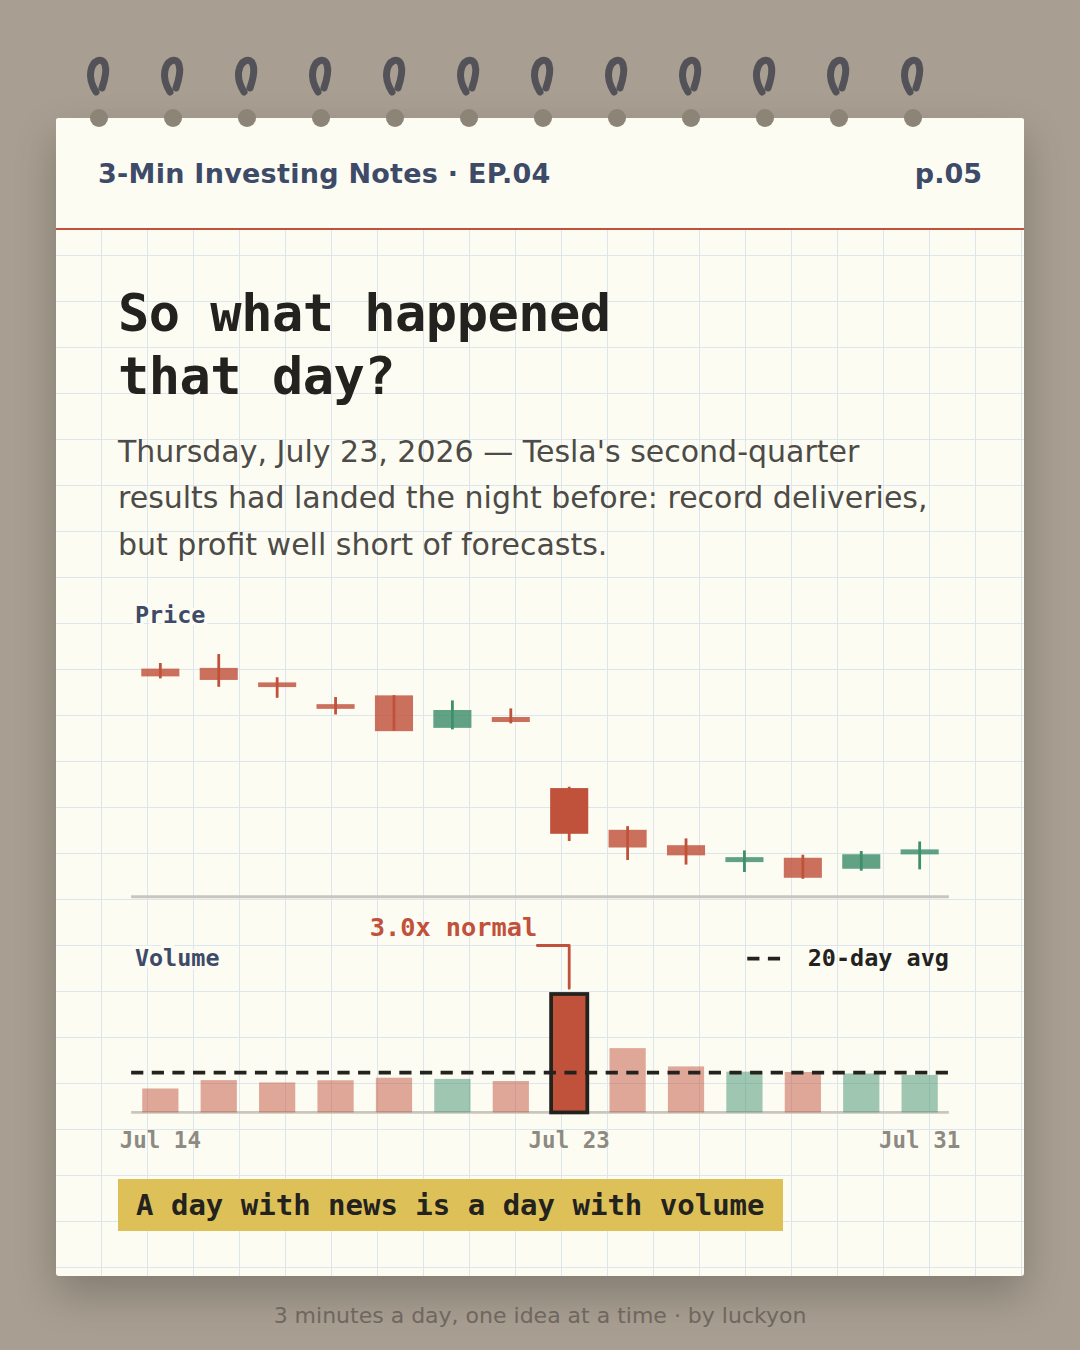
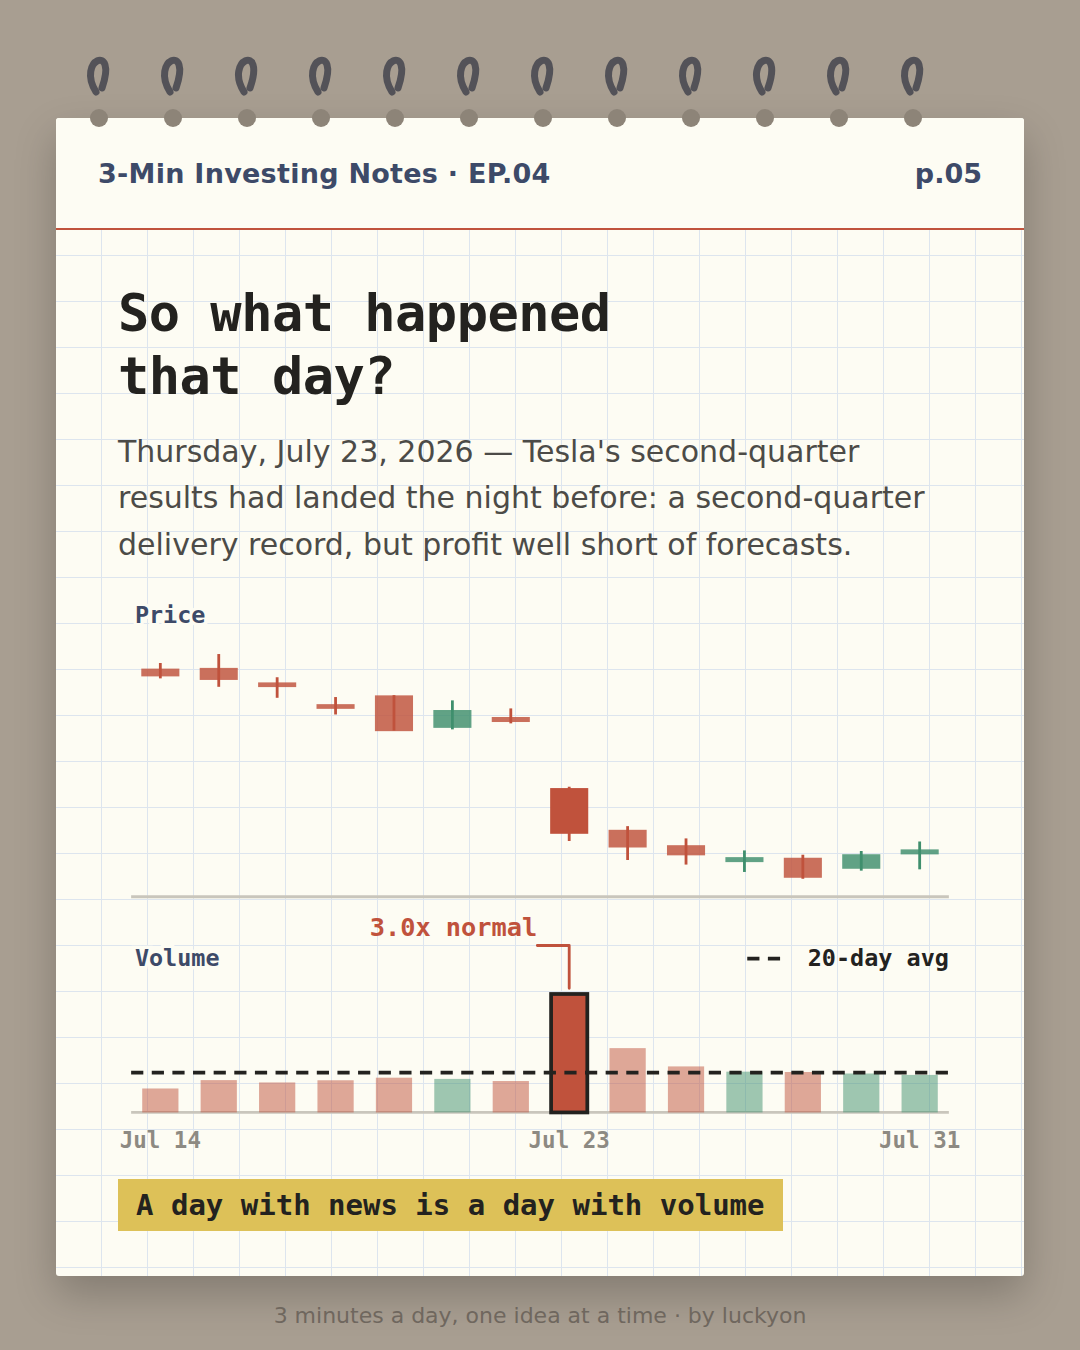
chart-notes: 2026-08-23-ep04 검증 지적사항 반영
검증 에이전트 판정 FAIL 3건 중 콘텐츠 관련 1건 + 권고 3건.

- p.05 영어판·캡션·alt_en[4] 의 "record deliveries" 가 원자료(역대 2분기
  최대치)보다 강하게 읽혔다. "a second-quarter delivery record" 로 한정.
- 영어판 p.04 의 "2x or more" 설명이 한국어("평소의 두 배 넘게")보다
  느슨했다. "Twice its normal or more" 로 맞춤.
- fact_check.en 에 한글이 한 단어 남아 있었다(EP.01~03 은 0자). 영어로 교체.
- fact_check.ko 날짜 오프셋 항목에 휴장일 교차검증 근거를 되살렸다
  (제헌절 7/17·광복절 대체공휴일 8/17 자리가 비어 있음).

시세는 28개 봉(ko 14 + en 14) 전량과 20일 평균 2건을 검증 에이전트가
원본에서 독립 재계산해 자릿수까지 일치 확인. 수정 없음.

Claude-Session: https://claude.ai/code/session_01LTS1RRz2cEpSGNTFRuiL8r

Changed region(s): [[0.3972, 0.3422, 0.8556, 0.4356], [0.1222, 0.3733, 0.3667, 0.4356]]

diff --git a/cards/chart-notes/2026-08-23-ep04/preview.html b/cards/chart-notes/2026-08-23-ep04/preview.html
@@ -56,7 +56,7 @@
 제출하면 다음 확인 루틴이 읽고 처리한 뒤, 결과를 카카오톡으로 알려드립니다.</p>
 
 <div class="fact"><b>시세 검증 기록</b>
-<div>KO — ① p.05 차트 — 삼성전자(005930.KS) 2026-07-13~07-31 14거래일 OHLC·거래량 전량을 PlayMCP UsStockInfo 일봉에서 그대로 옮겼다. 급증일 7/29(수) 시가 226,500 / 고가 234,000 / 저가 189,200 / 종가 208,500, 거래량 65,555,523주. ② 20거래일 평균 — 7/29 직전 20거래일(6/30~7/28) 거래량 합 564,693,346주 ÷ 20 = 28,234,667주. 65,555,523 ÷ 28,234,667 = 2.32배(p.04·p.05 의 '2.3배'). ③ p.05 가 말하는 «그날 무슨 일» — 네이버 뉴스로 확인했다. 머니투데이(2026-08-04) 「코스피는 지난달 28일과 29일 연일 서킷브레이커를 울리며 16.17% 급락」, 미디어오늘(2026-07-30) 「지난 28일과 29일 이틀에 걸쳐 코스피 지수가 17% 가까이 급락… 인공지능(AI) 투자 지속성에 대한 우려」, 연합뉴스·파이낸셜뉴스 등 다수가 「7월 29일 장중 18만9200원」을 보도했고 이는 일봉 저가와 일치한다. 7/29 종가 208,500원은 7/28 종가 220,000원 대비 -5.23%(p.07 의 '5.2%'). ④ p.06 — 실제 시세가 아닌 개념 비교표다(2026-08-23 이슈 #23 수정으로 교체). 종목·날짜·실거래 수치를 넣지 않았고, 쓰인 산술은 5만 원 × 100주 = 500만 원 / 50만 원 × 100주 = 5,000만 원 두 줄뿐이다. «거래대금 = 거래량 × 체결가» 라는 정의는 p.03 에 이미 실린 것과 같다. ⑤ p.07 의 '1주 체결 = 거래량 1주' 는 네이버 지식백과 '거래량'(매경 시사용어) 의 «매도 1백주, 매입 1백주인 경우 거래량은 1백주가 된다» 를 근거로 한다. ⑥ p.02 는 실제 시세가 아닌 도식이다 — 숫자·종목·날짜를 넣지 않았다. ⑦ 날짜 오프셋: 이 도구의 KRX 일봉은 15:00Z 로 찍히며 실제 거래일은 KST 다음 날이다. 2026-07-27T15:00Z 봉(종가 220,000원)이 언론이 보도한 «7월 28일 삼성전자 13.39% 하락»(254,000 → 220,000 = -13.39%)과 맞아떨어지는 것으로 교차검증했다.</div><div>EN — (1) p.05 chart — Tesla (TSLA) 2026-07-14 to 07-31, all 14 sessions of OHLC and volume copied straight from the PlayMCP UsStockInfo daily pull. Spike day Thu Jul 23: open 341.00 / high 342.11 / low 315.74 / close 319.69 on 115,606,400 shares. (2) 20-session average — the 20 sessions before Jul 23 (Jun 24 – Jul 22) total 779,189,600 shares ÷ 20 = 38,959,480. 115,606,400 ÷ 38,959,480 = 2.97x, shown as 3.0x on p.04 and p.05. (3) What p.05 says happened that day — Tesla released Q2 results after the close on Wednesday, July 22, and the stock fell the next session. Yonhap and SBS (2026-07-24): 'Tesla closed down 14.5% at $319.69… deliveries were a record 480,126 vehicles… profit came in far below the market forecast.' Newspim (2026-07-24) reports the walked-back robotaxi timeline from the same call. Close 319.69 against the Jul 22 close of 374.01 = -14.52% (p.07's '14.5%'). (4) p.06 — a concept table, not market data (replaced per issue #23 on 2026-08-23). It names no ticker, date, or traded figure; the only arithmetic on it is $50 × 100 shares = $5,000 and $500 × 100 shares = $50,000. The definition it rests on, turnover = volume × price, is the one already given on p.03. (5) p.07's 'one share traded = one share of volume' follows the Naver Encyclopedia entry for 거래량: «if 100 shares are sold and 100 bought, volume is 100 shares». (6) p.02 is a schematic, not real data — no ticker, date, or figure appears on it. (7) US bars carry 04:00Z stamps and need no date shift; Fri Jul 3 (Independence Day observed) is correctly absent from the pull.</div></div>
+<div>KO — ① p.05 차트 — 삼성전자(005930.KS) 2026-07-13~07-31 14거래일 OHLC·거래량 전량을 PlayMCP UsStockInfo 일봉에서 그대로 옮겼다. 급증일 7/29(수) 시가 226,500 / 고가 234,000 / 저가 189,200 / 종가 208,500, 거래량 65,555,523주. ② 20거래일 평균 — 7/29 직전 20거래일(6/30~7/28) 거래량 합 564,693,346주 ÷ 20 = 28,234,667주. 65,555,523 ÷ 28,234,667 = 2.32배(p.04·p.05 의 '2.3배'). ③ p.05 가 말하는 «그날 무슨 일» — 네이버 뉴스로 확인했다. 머니투데이(2026-08-04) 「코스피는 지난달 28일과 29일 연일 서킷브레이커를 울리며 16.17% 급락」, 미디어오늘(2026-07-30) 「지난 28일과 29일 이틀에 걸쳐 코스피 지수가 17% 가까이 급락… 인공지능(AI) 투자 지속성에 대한 우려」, 연합뉴스·파이낸셜뉴스 등 다수가 「7월 29일 장중 18만9200원」을 보도했고 이는 일봉 저가와 일치한다. 7/29 종가 208,500원은 7/28 종가 220,000원 대비 -5.23%(p.07 의 '5.2%'). ④ p.06 — 실제 시세가 아닌 개념 비교표다(2026-08-23 이슈 #23 수정으로 교체). 종목·날짜·실거래 수치를 넣지 않았고, 쓰인 산술은 5만 원 × 100주 = 500만 원 / 50만 원 × 100주 = 5,000만 원 두 줄뿐이다. «거래대금 = 거래량 × 체결가» 라는 정의는 p.03 에 이미 실린 것과 같다. ⑤ p.07 의 '1주 체결 = 거래량 1주' 는 네이버 지식백과 '거래량'(매경 시사용어) 의 «매도 1백주, 매입 1백주인 경우 거래량은 1백주가 된다» 를 근거로 한다. ⑥ p.02 는 실제 시세가 아닌 도식이다 — 숫자·종목·날짜를 넣지 않았다. ⑦ 날짜 오프셋: 이 도구의 KRX 일봉은 15:00Z 로 찍히며 실제 거래일은 KST 다음 날이다. 2026-07-27T15:00Z 봉(종가 220,000원)이 언론이 보도한 «7월 28일 삼성전자 13.39% 하락»(254,000 → 220,000 = -13.39%)과 맞아떨어지는 것으로, 또 제헌절 7/17(금)·광복절 대체공휴일 8/17(월) 자리가 정확히 비어 있는 것으로 교차검증했다.</div><div>EN — (1) p.05 chart — Tesla (TSLA) 2026-07-14 to 07-31, all 14 sessions of OHLC and volume copied straight from the PlayMCP UsStockInfo daily pull. Spike day Thu Jul 23: open 341.00 / high 342.11 / low 315.74 / close 319.69 on 115,606,400 shares. (2) 20-session average — the 20 sessions before Jul 23 (Jun 24 – Jul 22) total 779,189,600 shares ÷ 20 = 38,959,480. 115,606,400 ÷ 38,959,480 = 2.97x, shown as 3.0x on p.04 and p.05. (3) What p.05 says happened that day — Tesla released Q2 results after the close on Wednesday, July 22, and the stock fell the next session. Yonhap and SBS (2026-07-24): 'Tesla closed down 14.5% at $319.69… deliveries were a record 480,126 vehicles… profit came in far below the market forecast.' Newspim (2026-07-24) reports the walked-back robotaxi timeline from the same call. Close 319.69 against the Jul 22 close of 374.01 = -14.52% (p.07's '14.5%'). (4) p.06 — a concept table, not market data (replaced per issue #23 on 2026-08-23). It names no ticker, date, or traded figure; the only arithmetic on it is $50 × 100 shares = $5,000 and $500 × 100 shares = $50,000. The definition it rests on, turnover = volume × price, is the one already given on p.03. (5) p.07's 'one share traded = one share of volume' follows the Naver Encyclopedia entry for trading volume: «if 100 shares are sold and 100 bought, volume is 100 shares». (6) p.02 is a schematic, not real data — no ticker, date, or figure appears on it. (7) US bars carry 04:00Z stamps and need no date shift; Fri Jul 3 (Independence Day observed) is correctly absent from the pull.</div></div>
 
 
     <h2>🇰🇷 한국어 — 8장</h2>
@@ -115,8 +115,8 @@
       <figcaption><b>p.04</b> Formula card — today's volume divided by the 20-session average volume gives relative volume. 1x is a normal day, 2x or more is worth investigating, 0.5x is a day to take lightly. Tesla on July 23, 2026: 115.6M divided by 39.0M equals 3.0x, and the card closes by asking what happened that day</figcaption>
     </figure>
     <figure>
-      <img src="en/card5.png" alt="Real chart — Tesla's 14 sessions from July 14 to 31, 2026, with candlesticks in the upper panel and volume bars below, crossed by a dashed line marking the 20-session average. The July 23 bar spikes in red, labelled 3.0x normal, and the card explains that Tesla's second-quarter results had landed the night before: record deliveries but profit well short of forecasts" loading="lazy">
-      <figcaption><b>p.05</b> Real chart — Tesla's 14 sessions from July 14 to 31, 2026, with candlesticks in the upper panel and volume bars below, crossed by a dashed line marking the 20-session average. The July 23 bar spikes in red, labelled 3.0x normal, and the card explains that Tesla's second-quarter results had landed the night before: record deliveries but profit well short of forecasts</figcaption>
+      <img src="en/card5.png" alt="Real chart — Tesla's 14 sessions from July 14 to 31, 2026, with candlesticks in the upper panel and volume bars below, crossed by a dashed line marking the 20-session average. The July 23 bar spikes in red, labelled 3.0x normal, and the card explains that Tesla's second-quarter results had landed the night before: a second-quarter delivery record but profit well short of forecasts" loading="lazy">
+      <figcaption><b>p.05</b> Real chart — Tesla's 14 sessions from July 14 to 31, 2026, with candlesticks in the upper panel and volume bars below, crossed by a dashed line marking the 20-session average. The July 23 bar spikes in red, labelled 3.0x normal, and the card explains that Tesla's second-quarter results had landed the night before: a second-quarter delivery record but profit well short of forecasts</figcaption>
     </figure>
     <figure>
       <img src="en/card6.png" alt="Concept comparison table — volume on the left is counted in shares, turnover on the right in dollars. If 100 shares of a $50 stock trade, volume is 100 shares and turnover $5,000; if 100 shares of a $500 stock trade, volume is still 100 shares but turnover is $50,000" loading="lazy">
@@ -130,8 +130,8 @@
       <img src="en/card8.png" alt="Three-line recap, a teaser for the next episode on support and resistance, and a note that this is educational content and not investment advice" loading="lazy">
       <figcaption><b>p.08</b> Three-line recap, a teaser for the next episode on support and resistance, and a note that this is educational content and not investment advice</figcaption>
     </figure></div>
-    <h3>캡션 (1746자)</h3>
-    <div class="cap">Those vertical bars in the panel under the price chart are volume — simply how many shares changed hands that day.<br><br>The raw number tells you nothing on its own. One division fixes that: today's volume ÷ the 20-session average. Tesla traded 115.6M shares on Thursday, July 23, 2026, against a 39.0M average over the previous 20 sessions. That is 3.0 times its own normal.<br><br>So what happened that day? Tesla's second-quarter results had landed the night before — record deliveries of 480,126 vehicles, but profit far short of forecasts, and a robotaxi timeline the company walked back on the call. The stock closed down 14.5%. Volume that sits far from normal is a signal that the day is worth looking into.<br><br>The number your app prints next to volume is turnover, and the two count different things. Volume counts shares; turnover counts dollars. If 100 shares of a $50 stock trade, volume is 100 shares and turnover is $5,000. If 100 shares of a $500 stock trade, volume is still 100 shares — but turnover is $50,000. That is also why you should never rank two stocks by share count: judge each against its own normal, or compare the money traded.<br><br>And the mistake almost everyone makes: rising volume does not mean buyers piled in. Every share traded needs a buyer and a seller, so the two sides always match. Volume never gives you direction — it tells you how many shares changed hands.<br><br>📌 Save it and pull it up when you chart<br>👇 Tag a friend who just started investing<br>(Educational content only — not investment advice)<br><br>Next up: support and resistance — reading the ceiling and the floor on a chart.<br><br>#investingbasics #stockmarket #tradingvolume #stockcharts #technicalanalysis #learntoinvest #tesla #stockmarketbasics #investing101 #luckyon</div>
+    <h3>캡션 (1754자)</h3>
+    <div class="cap">Those vertical bars in the panel under the price chart are volume — simply how many shares changed hands that day.<br><br>The raw number tells you nothing on its own. One division fixes that: today's volume ÷ the 20-session average. Tesla traded 115.6M shares on Thursday, July 23, 2026, against a 39.0M average over the previous 20 sessions. That is 3.0 times its own normal.<br><br>So what happened that day? Tesla's second-quarter results had landed the night before — a second-quarter record of 480,126 deliveries, but profit far short of forecasts, and a robotaxi timeline the company walked back on the call. The stock closed down 14.5%. Volume that sits far from normal is a signal that the day is worth looking into.<br><br>The number your app prints next to volume is turnover, and the two count different things. Volume counts shares; turnover counts dollars. If 100 shares of a $50 stock trade, volume is 100 shares and turnover is $5,000. If 100 shares of a $500 stock trade, volume is still 100 shares — but turnover is $50,000. That is also why you should never rank two stocks by share count: judge each against its own normal, or compare the money traded.<br><br>And the mistake almost everyone makes: rising volume does not mean buyers piled in. Every share traded needs a buyer and a seller, so the two sides always match. Volume never gives you direction — it tells you how many shares changed hands.<br><br>📌 Save it and pull it up when you chart<br>👇 Tag a friend who just started investing<br>(Educational content only — not investment advice)<br><br>Next up: support and resistance — reading the ceiling and the floor on a chart.<br><br>#investingbasics #stockmarket #tradingvolume #stockcharts #technicalanalysis #learntoinvest #tesla #stockmarketbasics #investing101 #luckyon</div>
 
 
 <div class="act">
